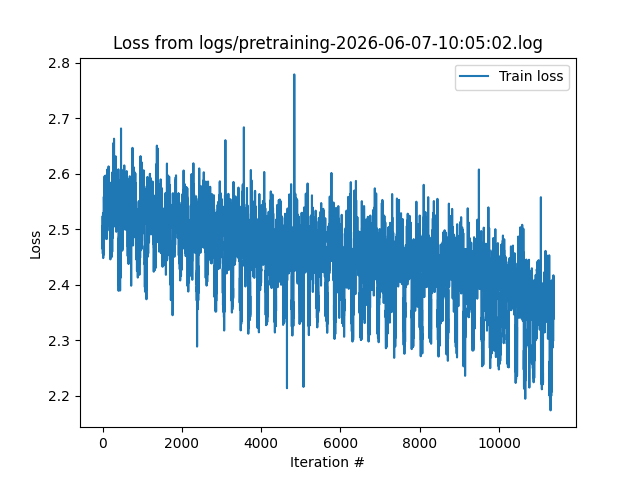
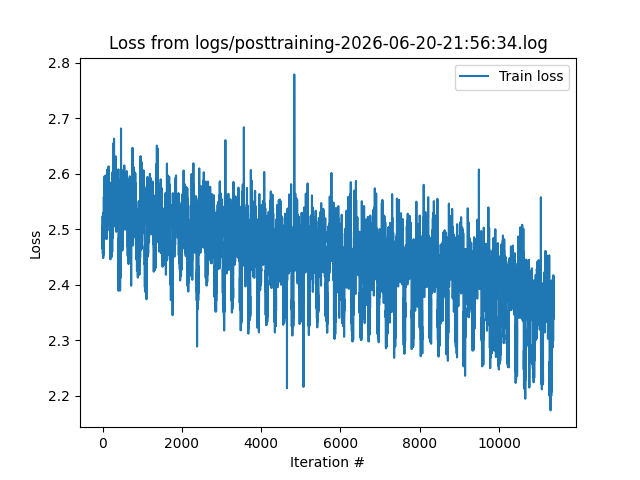
i hate langauge modeling sm

Changed region(s): [[0.1562, 0.0625, 0.875, 0.125]]

diff --git a/chat.py b/chat.py
@@ -1,3 +1,5 @@
+## NOTE this code is super bad
+
 import os
 import torch
 from pathlib import Path
@@ -7,7 +9,7 @@ from tokenizers.decoders import Metaspace as MetaspaceDecoder, Sequence as Seque
 
 from qt import qt
 
-MAX_TOKENS_ALLOWED_TO_GENERATE = 256
+MAX_TOKENS_ALLOWED_TO_GENERATE = 128
 tokenizer = Tokenizer.from_file("data/tokenizer.json")
 decoder = SequenceDecoder([MetaspaceDecoder()])
 
@@ -19,6 +21,22 @@ def preprocess(text: str):
         0x2019: 0x27,  # RIGHT SINGLE QUOTATION MARK -> '
     }
     return text.translate(punctuation_map).lower().replace(r"[^a-z0-9 [:space:][:punct:]]", '')
+
+def top_k_sampling(logits, k=5, temperature=1.0):
+    # 1. Apply temperature scaling to logits
+    logits = logits / temperature
+    # 2. Get the top-k logits and their indices
+    top_k_logits, top_k_indices = torch.topk(logits, k)
+    # 3. Filter out other logits by setting them to -infinity
+    # Create a mask for tokens not in top-k
+    filtered_logits = logits.new_ones(logits.shape) * float('-inf')
+    # Scatter the top-k values back into the filtered tensor
+    filtered_logits.scatter_(1, top_k_indices, top_k_logits)
+    # 4. Convert filtered logits to probabilities
+    probabilities = torch.nn.functional.softmax(filtered_logits, dim=-1)
+    # 5. Sample the next token from the top-k distribution
+    next_token = torch.multinomial(probabilities, num_samples=1)
+    return next_token
 
 class bcolors:
     BLUE = '\033[94m'
@@ -40,10 +58,10 @@ logo_str = f'''
 '''
 
 info_string = '''
-
 Enter 'q' or 'quit' to exit chat window.
 
-'''
+Loading model...'''
+# TODO add flush context command
 
 # clear terminal header and print info
 os.system('clear')
@@ -70,15 +88,18 @@ model = qt(
     num_embeddings=NUM_EMBEDDINGS,
     device=DEVICE
 ).to(DEVICE)
-model.inference_mode()
+model.eval()
 # model_dict = torch.load(model_dir+'checkpoints/qt-pretrain_best.pt')
-MODEL_PATH = Path(f'/home/jack/vault/software/qt/models/checkpoints/2026-06-07-10:05:02/2026-06-07-10:05:02_file_32_pretrain_qt.pth')
+MODEL_PATH = Path(f'models/checkpoints/2026-06-20-21:56:34/file_1_posttrain_qt.pth')
+# MODEL_PATH = Path(f'models/checkpoints/2026-06-07-10:05:02/2026-06-07-10:05:02_file_32_pretrain_qt.pth')
 model.load_state_dict(torch.load(MODEL_PATH))
 
 # 
-user_prompt_string = f'  Talk to {bcolors.CYAN}q{bcolors.ENDC}{bcolors.BLUE}t{bcolors.ENDC}: '
+user_prompt_string = f'\n## Talk to {bcolors.CYAN}q{bcolors.ENDC}{bcolors.BLUE}t{bcolors.ENDC}: '
 
-context = '[BOS_TOKEN]'
+context = '[BOS][USER]'
+# context = '[BOS][USER]you are qt. you are a billion parameter language model who is helpful and honest.'
+context_tokens = [2]
 while True:
     user_input = str(input(user_prompt_string))
 
@@ -86,34 +107,46 @@ while True:
         print('')
         break
 
-    user_input =  '[USER]' + preprocess(user_input) + '[AI]'
+    user_input =  preprocess(user_input) + '[AI]'
+    # user_input =  preprocess(user_input)
     
     # add user input to context
     context += user_input
+    context_tokens.extend(tokenizer.encode(user_input).ids)
+    # print(context_tokens)
 
-    context_tokens = tokenizer.encode(context).ids
-
-    
+    ## model generation
     tokens_generated = 0
-    while next_token not in ['[EOS]', '[USER]', '[AI]'] and tokens_generated < MAX_TOKENS_ALLOWED_TO_GENERATE:
+    next_token_id = 7
+    while next_token_id not in [0, 1, 2, 3, 4, 5] and tokens_generated < MAX_TOKENS_ALLOWED_TO_GENERATE:
         with torch.inference_mode():
             with torch.autocast(device_type='cuda', dtype=torch.bfloat16):
                 context_tokens_tensor = torch.tensor(context_tokens).unsqueeze(0).to(DEVICE)
                 output_logits = model(context_tokens_tensor)
 
-            # decode
-            probs = torch.nn.functional.softmax(output_logits[0, :, -1])
-
-            next_token_id = None
-
-            next_token = decoder.decode(next_token_id)
+            # sample
+            # next_token_id = top_k_sampling(output_logits[0:1, :, -1]).item()
+            # print(f'next token id: {next_token_id}')
+            preds = torch.argmax(output_logits, dim=1).squeeze(0)
+            next_token_id = preds[-1].item()
+            context_tokens.append(next_token_id)
             tokens_generated += 1
-            print(f"{bcolors.CYAN}{next_token:>12}{bcolors.ENDC}", end='')
 
-    print(f"{bcolors.CYAN}{model_response:>12}{bcolors.ENDC}")
+            # decode
+            next_token = tokenizer.decode([next_token_id])
+            if len(next_token)> 0 and next_token[0] == '▁': next_token = ' ' + next_token[1:] # NOTE war crime
+            # next_token = decoder.decode([temp])
+            print(f"{bcolors.CYAN}{next_token}{bcolors.ENDC}", end='')
+            if next_token_id in [0, 1, 2, 3, 4, 5]: print(f'ended with: {next_token_id}')
+            elif len(next_token) == 0: print(f'error with: {next_token_id}')
+
+
+    # if tokens_generated >= MAX_TOKENS_ALLOWED_TO_GENERATE:
+
+
+    # print(f'after gen: {context_tokens}')
+
+    # print(f"{bcolors.CYAN}{model_response:>12}{bcolors.ENDC}")
 
     # add response to context
-    context += model_response
-
-
-
+    # context += model_response
